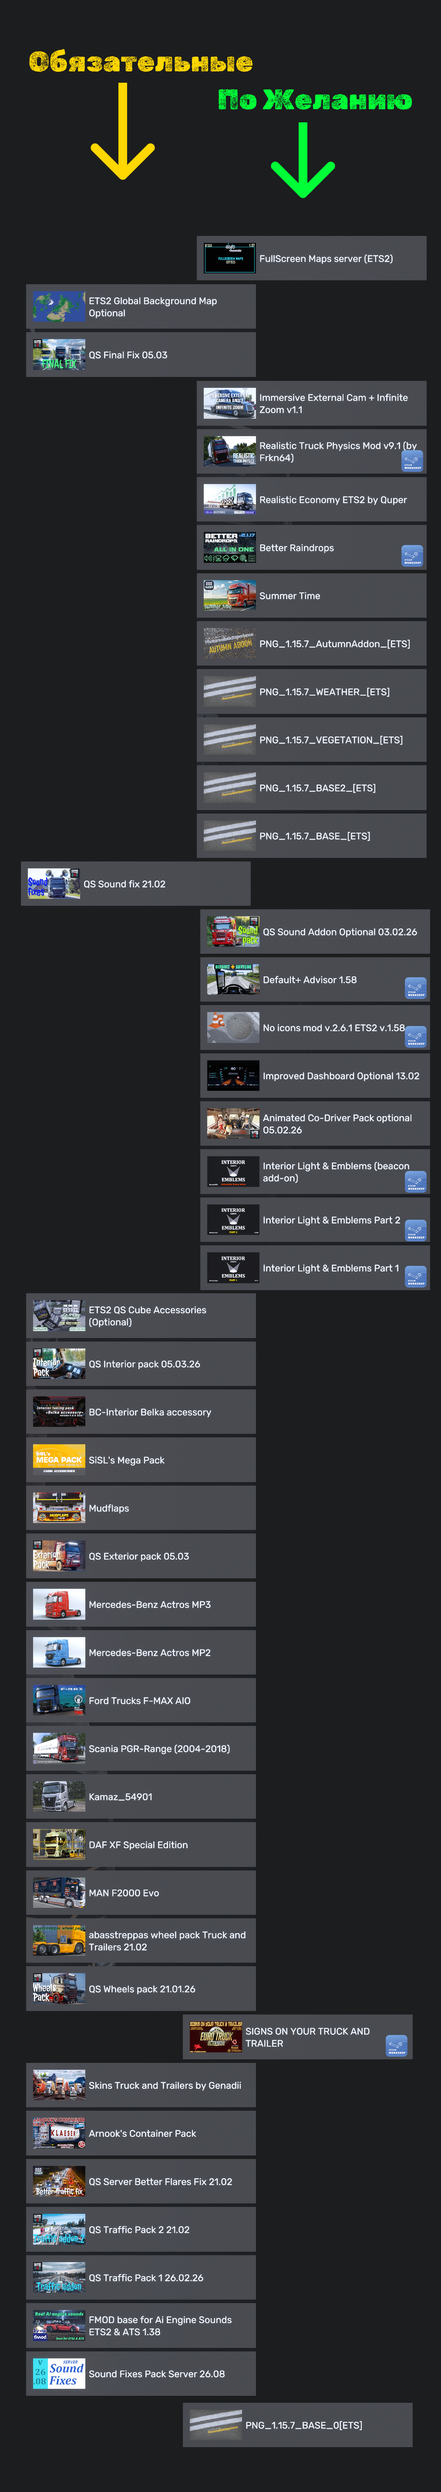
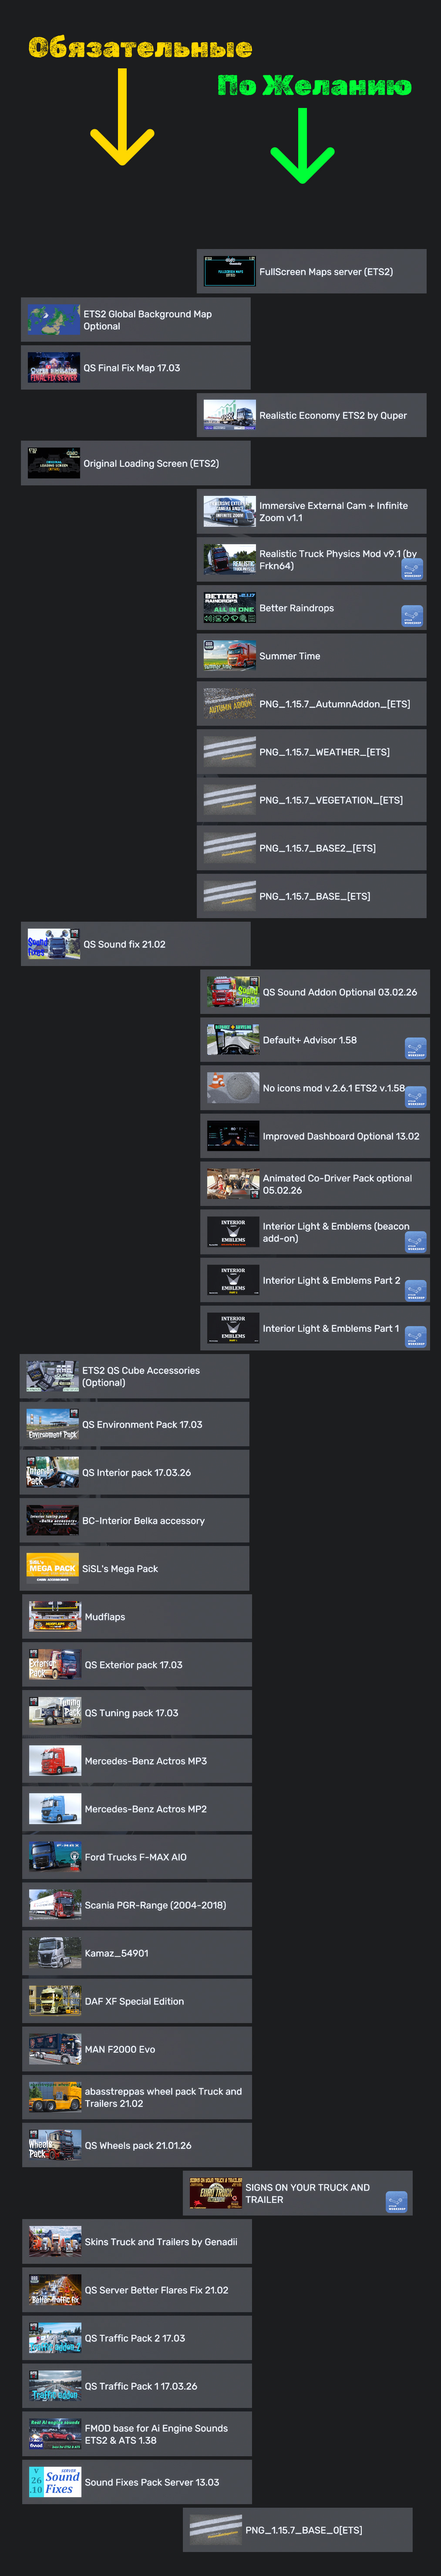
update server

Changed region(s): [[0.0306, 0.0, 0.9793, 0.9949]]

diff --git a/src/data/combos/v1.58.js b/src/data/combos/v1.58.js
@@ -206,10 +206,9 @@ export const combos_v1_58 = [
     preview: "img/combos/158/ets2-server/ets2-server-preview.jpg",
     version_game: "1.58",
     version: "server",
-    date: "07.03.26",
+    date: "17.03.26",
     image_center: "img/combos/158/ets2-server/ets2-server-center.jpg",
-    profile:
-      "https://sharemods.com/mrpe4t2lrljg/PROFILE_SERVER_PROMODS_06.03.zip.html",
+    profile: "https://sharemods.com/xpxuplqfzac2/PROFILE_PM_SERVER.zip.html",
   },
 
   {
@@ -219,9 +218,9 @@ export const combos_v1_58 = [
     preview: "img/combos/158/ets2-contracts/ets2-contracts-preview.jpg",
     version_game: "1.58",
     version: "server",
-    date: "06.03.26",
+    date: "17.03.26",
     image_center: "img/combos/158/ets2-contracts/ets2-contracts-center.jpg",
     profile:
-      "https://sharemods.com/maohxnrlxs5c/PROFILE_SERVER_CONTRACTS_06.03.zip.html",
+      "https://sharemods.com/agh6u6einqpp/SERVER_NO_MAP_PROFILE.zip.html",
   },
 ];
